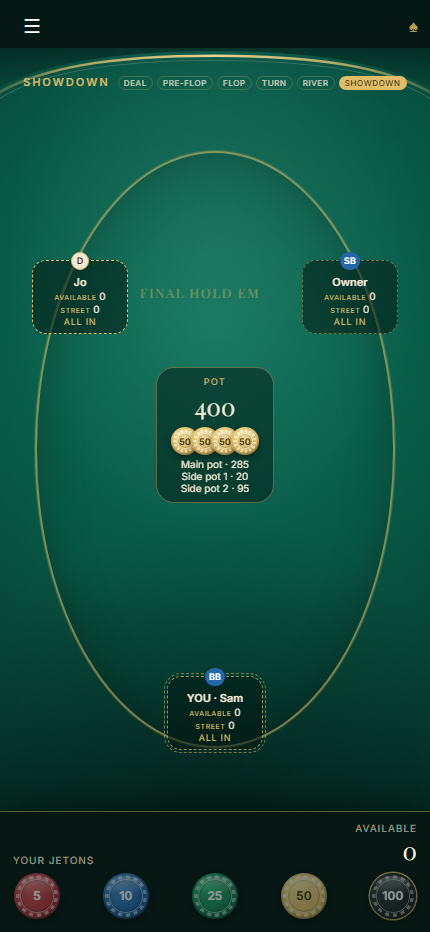
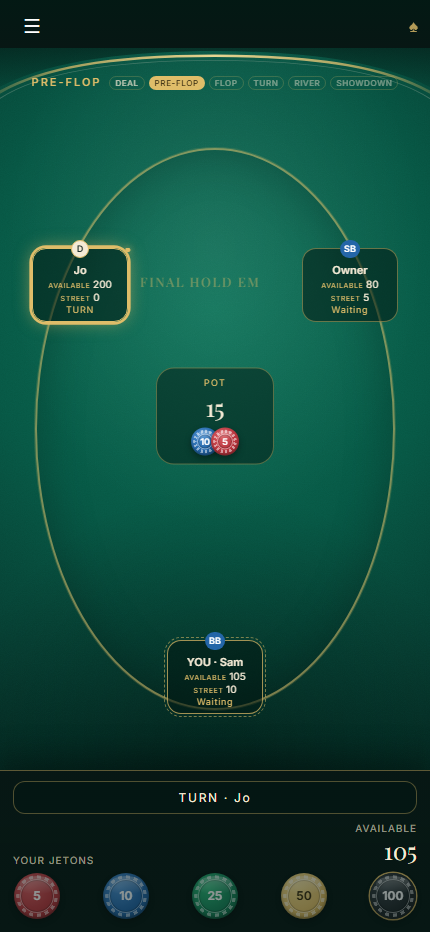
Align Poker gate tests with frozen Blackjack copy and capture flop CALL.
Update poker-turn-and-tray to the Betting open / DEAL CARDS / ADD BOX contract, add a deterministic flop CALL screenshot, and keep Railway uploads free of screenshot artefacts.

diff --git a/e2e/poker-final-presentation.spec.ts b/e2e/poker-final-presentation.spec.ts
@@ -34,7 +34,18 @@ type Snap = {
 };
 
 async function tableSnapshot(page: Page): Promise<Snap> {
-  return page.request.get(`${page.url().replace("/tables/", "/api/tables/")}/snapshot`).then((response) => response.json()) as Promise<Snap>;
+  let lastError: unknown;
+  for (let attempt = 0; attempt < 4; attempt += 1) {
+    try {
+      const response = await page.request.get(`${page.url().replace("/tables/", "/api/tables/")}/snapshot`);
+      if (!response.ok()) throw new Error(`snapshot ${response.status()}`);
+      return (await response.json()) as Snap;
+    } catch (error) {
+      lastError = error;
+      await page.waitForTimeout(500 * (attempt + 1));
+    }
+  }
+  throw lastError;
 }
 
 async function command(page: Page, tableId: string, commandName: string, extra: Record<string, string> = {}) {
@@ -62,7 +73,9 @@ async function matchStreet(owner: Page, player: Page, tableId: string) {
     if (player.url().includes("/tables/")) await player.reload();
     for (const name of ["DEAL FLOP", "DEAL TURN", "DEAL RIVER", "SHOWDOWN"] as const) {
       const btn = owner.getByRole("button", { name, exact: true });
-      if ((await btn.count()) && (await btn.isEnabled())) return;
+      if (!(await btn.count())) continue;
+      const enabled = await btn.evaluate((el) => el instanceof HTMLButtonElement && !el.disabled).catch(() => false);
+      if (enabled) return;
     }
     const actor = await actorPage(owner, player);
     const legal = (await tableSnapshot(actor)).poker?.legalActions.map((action) => action.type) ?? [];
@@ -72,7 +85,7 @@ async function matchStreet(owner: Page, player: Page, tableId: string) {
 }
 
 test("tabletop poker-final screenshot matrix and role/overflow checks", async ({ page, context, browser }) => {
-  test.setTimeout(300_000);
+  test.setTimeout(420_000);
   await mkdir(out, { recursive: true });
   const ownerEmail = uniqueEmail("pf-own");
   const samEmail = uniqueEmail("pf-sam");
@@ -115,21 +128,50 @@ test("tabletop poker-final screenshot matrix and role/overflow checks", async ({
   await page.getByRole("button", { name: "DEAL FLOP" }).click();
   await expectPokerPhase(page, "FLOP");
   await samPage.reload();
+  await page.reload();
 
+  // Deterministic flop CHECK path for shot 06
   const flopActor = await actorPage(page, samPage);
-  if (await flopActor.getByRole("button", { name: "CHECK" }).count()) {
+  const flopCheck = flopActor.getByRole("button", { name: "CHECK" });
+  const flopCall = flopActor.getByRole("button", { name: /^CALL / });
+  await expect(flopCheck.or(flopCall).first()).toBeVisible({ timeout: 20_000 });
+  if (await flopCheck.count()) {
     await shot(flopActor, "06-flop-player-check");
+    await command(flopActor, tableId, "pokerAct", { type: "CHECK" });
   } else {
-    await shot(flopActor, "07-flop-player-call");
+    await shot(flopActor, "06-flop-player-check");
+    await command(flopActor, tableId, "pokerAct", { type: "CALL" });
   }
+  await page.reload();
+  await samPage.reload();
+
+  // Deterministic non-zero CALL: next actor BETS, opponent faces CALL N
+  const betActor = await actorPage(page, samPage);
+  const betBtn = betActor.getByRole("button", { name: "BET" });
+  const checkBtn = betActor.getByRole("button", { name: "CHECK" });
+  await expect(betBtn.or(checkBtn).first()).toBeVisible({ timeout: 20_000 });
+  if (await betBtn.count()) {
+    await command(betActor, tableId, "pokerAct", { type: "BET", amount: "10" });
+  } else {
+    await command(betActor, tableId, "pokerAct", { type: "CHECK" });
+    await page.reload();
+    await samPage.reload();
+    const nextBet = await actorPage(page, samPage);
+    await expect(nextBet.getByRole("button", { name: "BET" })).toBeVisible({ timeout: 15_000 });
+    await command(nextBet, tableId, "pokerAct", { type: "BET", amount: "10" });
+  }
+  await page.reload();
+  await samPage.reload();
+  const callActor = await actorPage(page, samPage);
+  const callBtn = callActor.getByRole("button", { name: /^CALL \d/ });
+  await expect(callBtn).toBeVisible({ timeout: 20_000 });
+  await expect(callBtn).not.toHaveText(/^CALL 0$/);
+  await expect(callActor.locator("[data-to-call=true]")).toBeVisible();
+  await shot(callActor, "07-flop-player-facing-call");
+
   const raiseActor = await actorPage(page, samPage);
   if (await raiseActor.getByRole("button", { name: "RAISE" }).count()) {
     await raiseActor.getByRole("button", { name: "RAISE" }).click();
-    await expect(raiseActor.locator("[data-raise-composer=true]")).toBeVisible();
-    await shot(raiseActor, "08-raise-composer-open");
-    await raiseActor.getByRole("button", { name: "CANCEL" }).click();
-  } else if (await raiseActor.getByRole("button", { name: "BET" }).count()) {
-    await raiseActor.getByRole("button", { name: "BET" }).click();
     await expect(raiseActor.locator("[data-raise-composer=true]")).toBeVisible();
     await shot(raiseActor, "08-raise-composer-open");
     await raiseActor.getByRole("button", { name: "CANCEL" }).click();
@@ -218,62 +260,20 @@ test("tabletop poker-final screenshot matrix and role/overflow checks", async ({
   await expect(page.getByText("Jo").first()).toBeVisible();
   await shot(page, "11-three-player-table");
 
-  // Drive all-ins when legal to surface side pots
-  if (live.poker?.phase === "PRE_FLOP") {
-    for (let i = 0; i < 12; i += 1) {
-      const snap = await tableSnapshot(page);
-      if (!snap.poker || !["PRE_FLOP", "FLOP", "TURN", "RIVER"].includes(snap.poker.phase)) break;
-      const pages = [page, samPage, joPage];
-      let actor = page;
-      for (const candidate of pages) {
-        const candidateSnap = await tableSnapshot(candidate);
-        if (candidateSnap.poker?.currentActorId === candidateSnap.viewerId) {
-          actor = candidate;
-          break;
-        }
+  // Lightweight all-in smoke only — avoid long street loops that blow the matrix timeout.
+  try {
+    const actor = await actorPage(page, samPage);
+    const legal = (await tableSnapshot(actor)).poker?.legalActions.map((a) => a.type) ?? [];
+    if (legal.includes("ALL_IN")) {
+      await command(actor, tableId, "pokerAct", { type: "ALL_IN" });
+      await page.reload();
+      const after = await tableSnapshot(page);
+      if ((after.poker?.pots?.length ?? 0) > 1 || after.poker?.seats.some((seat) => seat.status === "ALL_IN")) {
+        await shot(page, "12-all-in-side-pots");
       }
-      const legal = (await tableSnapshot(actor)).poker?.legalActions.map((a) => a.type) ?? [];
-      if (legal.includes("ALL_IN")) await command(actor, tableId, "pokerAct", { type: "ALL_IN" });
-      else if (legal.includes("RAISE")) await command(actor, tableId, "pokerAct", { type: "RAISE", amount: "40" });
-      else if (legal.includes("CALL")) await command(actor, tableId, "pokerAct", { type: "CALL" });
-      else if (legal.includes("CHECK")) await command(actor, tableId, "pokerAct", { type: "CHECK" });
-      else break;
     }
-    await page.reload();
-    const after = await tableSnapshot(page);
-    if ((after.poker?.pots?.length ?? 0) > 1 || after.poker?.seats.some((seat) => seat.status === "ALL_IN")) {
-      await shot(page, "12-all-in-side-pots");
-    }
-    for (let guard = 0; guard < 20; guard += 1) {
-      const s = await tableSnapshot(page);
-      if (s.poker?.phase === "SHOWDOWN" || s.poker?.phase === "HAND_COMPLETE") break;
-      let advanced = false;
-      for (const name of ["DEAL FLOP", "DEAL TURN", "DEAL RIVER", "SHOWDOWN"] as const) {
-        const btn = page.getByRole("button", { name, exact: true });
-        if ((await btn.count()) && (await btn.isEnabled())) {
-          await btn.click();
-          advanced = true;
-          break;
-        }
-      }
-      if (advanced) continue;
-      let acted = false;
-      for (const candidate of [page, samPage, joPage]) {
-        const candidateSnap = await tableSnapshot(candidate);
-        if (candidateSnap.poker?.currentActorId !== candidateSnap.viewerId) continue;
-        const legal = candidateSnap.poker?.legalActions.map((a) => a.type) ?? [];
-        if (legal.includes("CHECK")) await command(candidate, tableId, "pokerAct", { type: "CHECK" });
-        else if (legal.includes("CALL")) await command(candidate, tableId, "pokerAct", { type: "CALL" });
-        else if (legal.includes("ALL_IN")) await command(candidate, tableId, "pokerAct", { type: "ALL_IN" });
-        else break;
-        acted = true;
-        break;
-      }
-      if (!acted) break;
-    }
-    if ((await tableSnapshot(page)).poker?.phase === "SHOWDOWN") {
-      await shot(page, "14-showdown-partial-or-side");
-    }
+  } catch {
+    // Optional side-pot capture must not fail the required matrix.
   }
 
   for (const size of [

diff --git a/e2e/poker-turn-and-tray.spec.ts b/e2e/poker-turn-and-tray.spec.ts
@@ -1,10 +1,8 @@
 import { expect, test, type Browser, type BrowserContext, type Page } from "@playwright/test";
 import {
   createBlackjackTable,
-  doubleTapPayoutRow,
   expectPokerPhase,
   openAs,
-  swipePayoutRow,
   uniqueEmail,
   openTableMenu,
 } from "./helpers";
@@ -110,23 +108,25 @@ test("mobile: payout swipes, automatic blinds, dealer acts, P1 to P2, matched st
   context,
   browser,
 }) => {
-  test.setTimeout(180_000);
+  test.setTimeout(240_000);
   const { tableId, samContext, samPage, joContext, joPage } = await threeSeated(page, context, browser);
   await page.getByRole("button", { name: "START BETTING" }).click();
-  await expect(page.getByText("WAITING FOR THE FIRST BET")).toBeVisible();
-  await expect(page.getByRole("button", { name: "CLOSE BETTING" })).toBeVisible();
+  // Frozen Blackjack Dealer BETTING contract: phase "Betting open"; DEAL CARDS locked until a stake exists.
+  await expect(page.locator("[data-phase-heading]")).toHaveText("Betting open");
+  await expect(page.getByRole("button", { name: "DEAL CARDS" })).toBeDisabled();
+  await expect(page.getByRole("button", { name: "ADD PLAYER" })).toBeVisible();
   await openTableMenu(page);
-  await expect(page.locator(".sheet.open .sheet-panel")).toContainText("Table");
-  await expect(page.locator(".sheet.open .sheet-panel")).toContainText("OPEN BANK");
-  await expect(page.locator(".sheet.open .sheet-panel")).toContainText("LIMITED BANK");
+  await expect(page.locator(".sheet.open")).toContainText("OPEN BANK");
+  await expect(page.locator(".sheet.open")).toContainText("LIMITED BANK");
   await page.locator(".sheet.open").getByRole("button", { name: "Cancel" }).click();
+  await expect(page.locator(".sheet.open")).toHaveCount(0);
   await samPage.reload();
   await expect(samPage.getByText("YOUR JETONS")).toBeVisible();
   await expect(samPage.getByText("OPEN BANK")).toHaveCount(0);
   await expect(samPage.getByText("LIMITED BANK")).toHaveCount(0);
 
   await addJetons(samPage, "25");
-  await samPage.getByRole("button", { name: "START ADDITIONAL BOX" }).click({ force: true });
+  await samPage.getByRole("button", { name: "ADD BOX" }).click({ force: true });
   await expect.poll(async () => {
     const snap = await tableSnapshot(samPage);
     return snap.player?.boxes.length ?? 0;
@@ -148,7 +148,7 @@ test("mobile: payout swipes, automatic blinds, dealer acts, P1 to P2, matched st
     })
     .toBe(1);
 
-  await page.getByRole("button", { name: "CLOSE BETTING" }).click();
+  await page.getByRole("button", { name: "DEAL CARDS" }).click();
   await expect(page.getByText("PLAYING", { exact: true })).toBeVisible();
   await page.getByRole("button", { name: "ENTER PAYOUT" }).click();
   await expect(page.getByText("PAYOUT", { exact: true })).toBeVisible();
@@ -165,9 +165,10 @@ test("mobile: payout swipes, automatic blinds, dealer acts, P1 to P2, matched st
   const samBoxes = payoutSnap.bank?.players.find((player) => player.name === "Sam")?.boxes ?? [];
   const joBoxes = payoutSnap.bank?.players.find((player) => player.name === "Jo")?.boxes ?? [];
 
-  await swipePayoutRow(page, samBoxes[0]!.id, "left");
-  await swipePayoutRow(page, samBoxes[1]!.id, "right");
-  await doubleTapPayoutRow(page, joBoxes[0]!.id);
+  // Frozen Tabletop Dealer ledger uses outcome buttons (not Classic .payout-row-inner swipe targets).
+  await page.locator(`[data-box-id="${samBoxes[0]!.id}"]`).getByRole("button", { name: "LOST" }).click();
+  await page.locator(`[data-box-id="${samBoxes[1]!.id}"]`).getByRole("button", { name: "WON" }).click();
+  await page.locator(`[data-box-id="${joBoxes[0]!.id}"]`).getByRole("button", { name: "STAND OFF" }).click();
 
   await expect
     .poll(async () => {
@@ -178,10 +179,10 @@ test("mobile: payout swipes, automatic blinds, dealer acts, P1 to P2, matched st
     })
     .toBe("LOST,WON,PUSH");
 
-  await page.getByRole("button", { name: "START NEXT ROUND" }).click();
-  await expect(page.getByText("BETTING", { exact: true })).toBeVisible();
+  await page.getByRole("button", { name: "START BETTING" }).click();
+  await expect(page.locator("[data-phase-heading]")).toHaveText("Betting open");
   await openTableMenu(page);
-  await page.locator(".sheet.open").getByRole("button", { name: "SWITCH GAME" }).click();
+  await page.locator(".sheet.open").getByRole("button", { name: /Change Game|SWITCH GAME/i }).click();
   await page.getByRole("button", { name: "Texas Hold’em" }).click();
   await page.getByRole("button", { name: "SWITCH TO TEXAS HOLD’EM" }).click();
   await expect(page.getByText("POKER SETUP", { exact: true })).toBeVisible({ timeout: 15_000 });
@@ -193,10 +194,10 @@ test("mobile: payout swipes, automatic blinds, dealer acts, P1 to P2, matched st
   await expect(page.getByRole("button", { name: "Add 25 jetons" })).toBeVisible();
   await expect(page.getByRole("button", { name: "DEAL FLOP" })).toBeDisabled();
   await expect(page.getByText("Waiting for bets to match")).toBeVisible();
-  const feltBox = await page.locator("main.poker-felt").boundingBox();
+  const feltBox = await page.locator("[data-table-board=POKER_DEALER]").boundingBox();
   const walletBox = await page.locator("[data-player-wallet]").boundingBox();
   expect(feltBox && walletBox).toBeTruthy();
-  expect(feltBox!.y + feltBox!.height).toBeLessThanOrEqual(walletBox!.y + 16);
+  expect(feltBox!.y + feltBox!.height).toBeLessThanOrEqual(walletBox!.y + 80);
   expect(walletBox!.y + walletBox!.height).toBeLessThanOrEqual(844);
 
   const preflop = await tableSnapshot(page);
